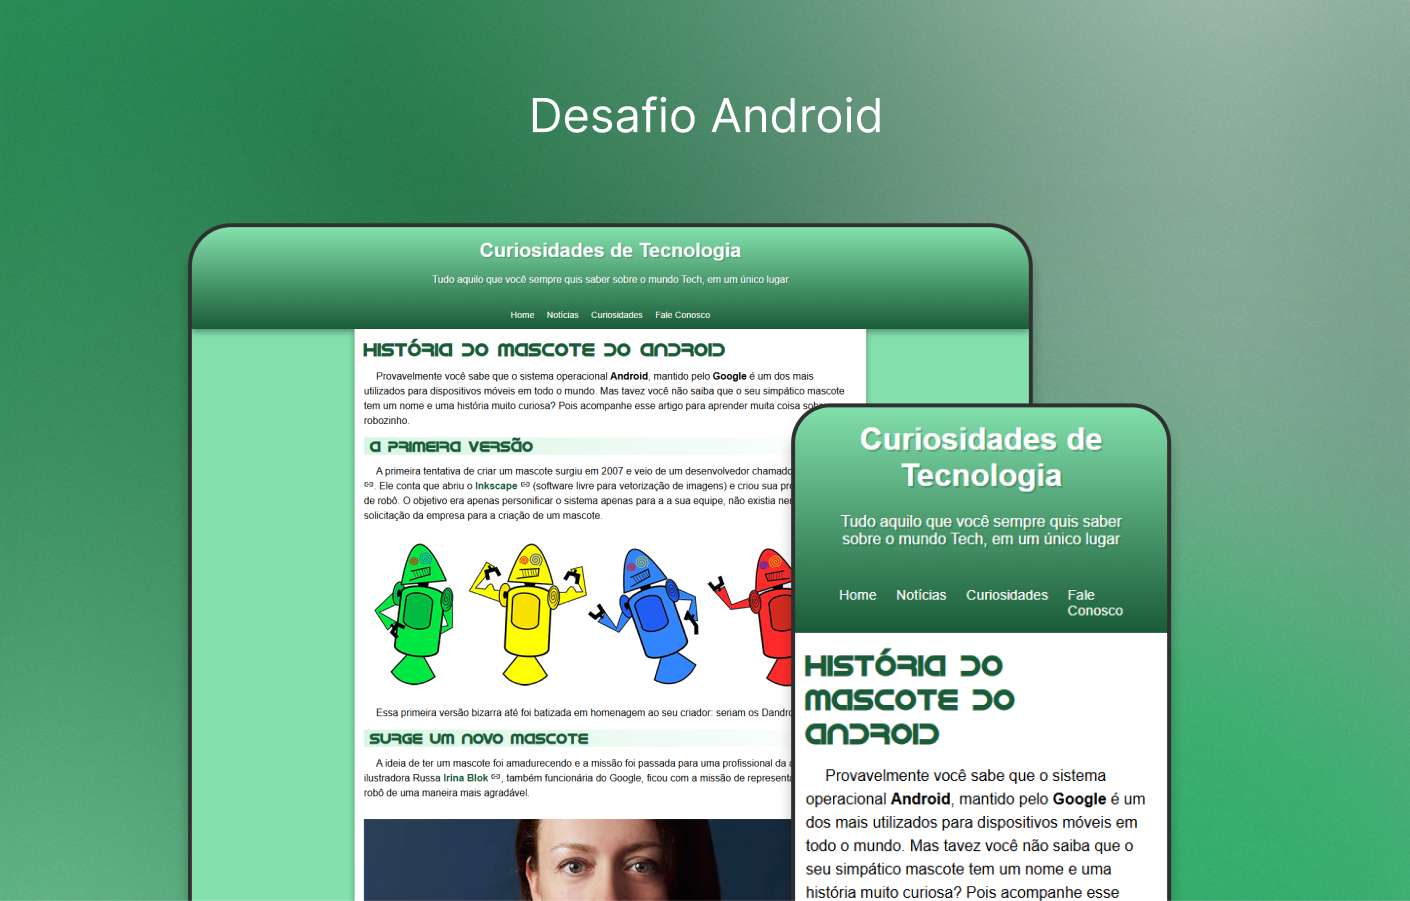
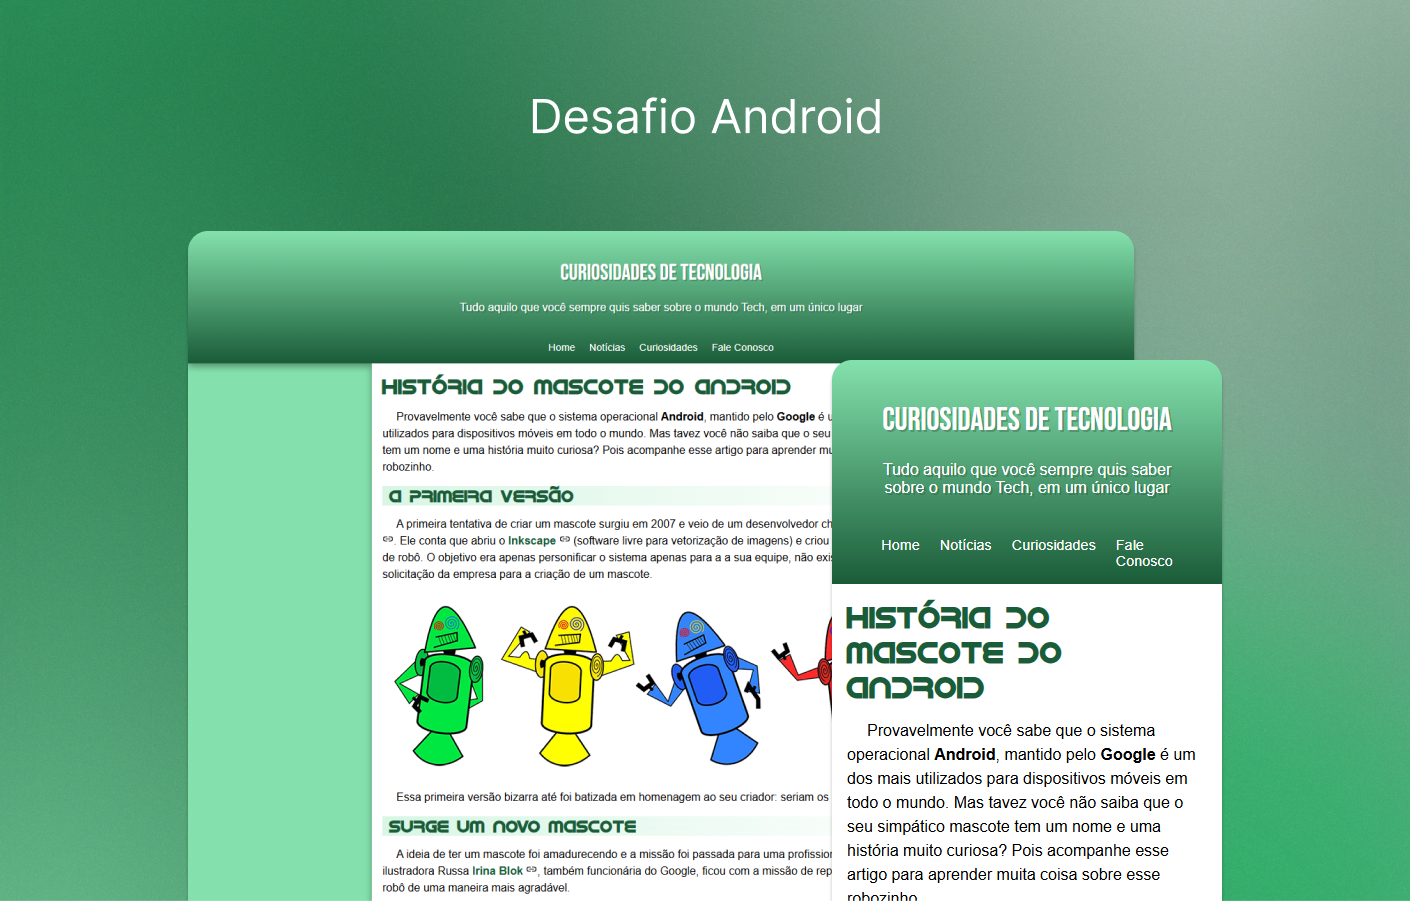
Modifiquei imagem do Readme

Changed region(s): [[0.1248, 0.2486, 0.8738, 1.0], [0.3745, 0.1243, 0.4681, 0.1554], [0.4993, 0.1243, 0.5305, 0.1554]]

diff --git a/style.css b/style.css
@@ -51,7 +51,7 @@ header {
   flex-direction: column;
   gap: 20px;
   background-image: linear-gradient(to top, #1a5c38, #84e1ad);
-  padding-top: 20px;
+  padding-top: 40px;
   padding-inline: 40px;
   padding-bottom: 5px;
   box-shadow: 0 5px 10px rgba(0, 0, 0, 0.349);
